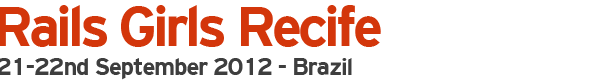
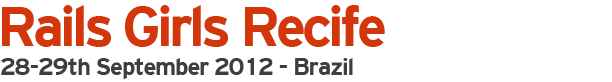
Updated Recife header and added link to application

Changed region(s): [[0.0, 0.0488, 0.652, 0.5854], [0.0, 0.7073, 0.5899, 0.9756]]

diff --git a/recife.html b/recife.html
@@ -45,7 +45,7 @@
             Rails Girls no Brasil! É um curso gratuito de dois dias, que irá lhe abrir
             as portas para o excitante mundo da programação web, com Ruby on Rails. Não
             necessário nenhum conhecimento prévio em T.I. </p>
-            <p>Inscrições abertas até TBA.</p>
+            <p><a href="https://railsgirls.wufoo.com/forms/apply-to-rails-girls-recife/">Apply now!</a> Inscrições abertas até TBA.</p>
 <p>
         </p>
           <div id="share">
@@ -112,7 +112,7 @@
             <th>10:00 - 18:00</th>
             <td>
               <h4>Workshop</h4>
-             Jumpstart your first web application. We'll have short lightning talks, exercises and hands-on coding. Check out the programs from <a href="./singapore.html">Singapore</a>, <a href="./shanghai.html">Shanghai</a> and <a href="./helsinki.html">Helsinki</a> while we're busy preparing the Recife edition.
+             Jumpstart your first web application. We'll have short lightning talks, exercises and hands-on coding. Check out the programs from <a href="./singapore.html">Singapore</a>, <a href="./chicago.html">Shanghai</a> and <a href="./helsinki.html">Helsinki</a> while we're busy preparing the Recife edition.
             </td>
           </tr>
       
@@ -144,7 +144,7 @@
        
             </p>
             
-            <h3>What they say about us?</h3>
+            <h3>What are they saying about us?</h3>
           <p>Nothing yet - but check out the <a href="http://www.railsgirls.com/press">press page</a> for further updates!</p> 
                 
                 
